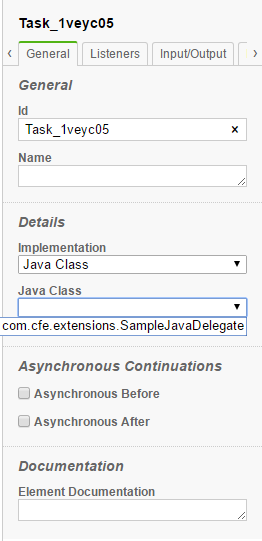
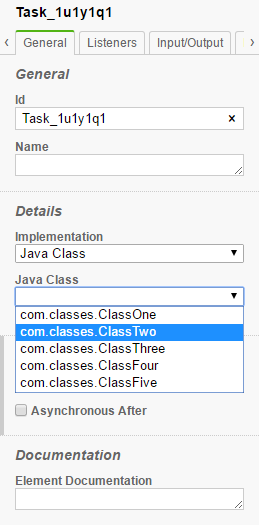
review changes addition

Changed region(s): [[0.0, 0.0, 1.0, 1.0]]

diff --git a/content/post/2017/03/adding-custom-elements-to-bpmn-properties-panel.md b/content/post/2017/03/adding-custom-elements-to-bpmn-properties-panel.md
@@ -199,7 +199,56 @@ At this point in time if your `grunt auto-build` was running successfully you wi
 
 ## Dynamically passing value to Select Box
 
-We will leverage the `setControlValue` attribute from [selectFactory](https://github.com/bpmn-io/bpmn-js-properties-panel/blob/master/lib/factory/SelectEntryFactory.js#L86) To do so we need to do some changes inside `DelegateSelect.js` file as floows :
+Let us try two ways of passing values dynamically : 
+
+1. Passing value from a local json file
+2. Getting values from an external network via an ajax call
+
+
+### Rendering Values from a local JSON file :
+
+Consider you have an local JSON file in path say `delegateSelect.json` adjacent to delegateSelect.js as :
+
+```
+[
+  {
+    "name" : "com.classes.ClassOne",
+    "value" : "com.classes.ClassOne"
+  },
+  {
+    "name" : "com.classes.ClassTwo",
+    "value" : "com.classes.ClassTwo"
+  },
+  {
+    "name" : "com.classes.ClassThree",
+    "value" : "com.classes.ClassThree"
+  },
+  {
+    "name" : "com.classes.ClassFour",
+    "value" : "com.classes.ClassFour"
+  },
+  {
+    "name" : "com.classes.ClassFive",
+    "value" : "com.classes.ClassFive"
+  }
+]
+
+```
+
+We just need to import this json and bind to selectOptions in `delegateSelect.js` as follows : 
+
+```
+  var selectValues = require('./delegateSelect.json');
+  
+  .
+  selectOptions : selectValues,
+  .
+  .
+``` 
+
+### Resolving values from an external resouce via an ajax call
+
+To accomplish this, We will leverage the `setControlValue` attribute from [selectFactory](https://github.com/bpmn-io/bpmn-js-properties-panel/blob/master/lib/factory/SelectEntryFactory.js#L86) To do so we need to do some changes inside `DelegateSelect.js` file as floows :
 
 1. Need to change value of **selectOptions** from list to **function** as we see the function being called.
 2. We need to add one more property as setControlValue to true to register it as dynamic rendering value component.
@@ -208,20 +257,18 @@ We will leverage the `setControlValue` attribute from [selectFactory](https://gi
 selectOptions: function(element, node) {
     var arrValues = []
     $.ajax({
-        url: 'http://localhost:XXXX/XXXX/XX/XX', //any url
+        url: ${your-url},
         method :"GET",
         success: function (result) {
-          //result = ["com.my.class1","com.my.class2","com.my.class3"]
-            result.forEach(function(ele){
-              arrValues.push({name:ele,value:ele})
-            })
-         },
+          arrValues = result; 
+        },
         async: false
     });
-      return arrValues;
+    return arrValues;
 },
 setControlValue :true
 ```
+*Note : result of the ajax call is something similar to the json above*
 
 I have used $ because of the import statement added above as :
 
